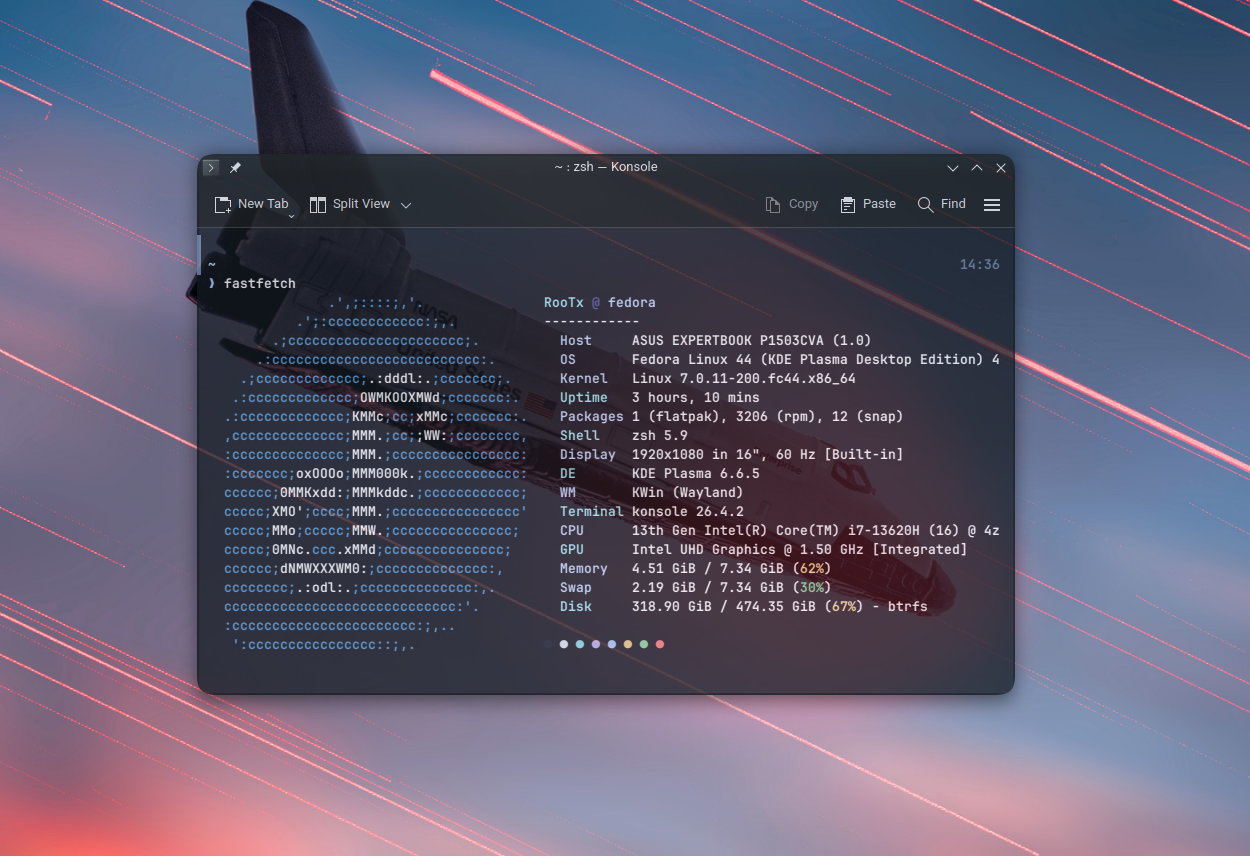
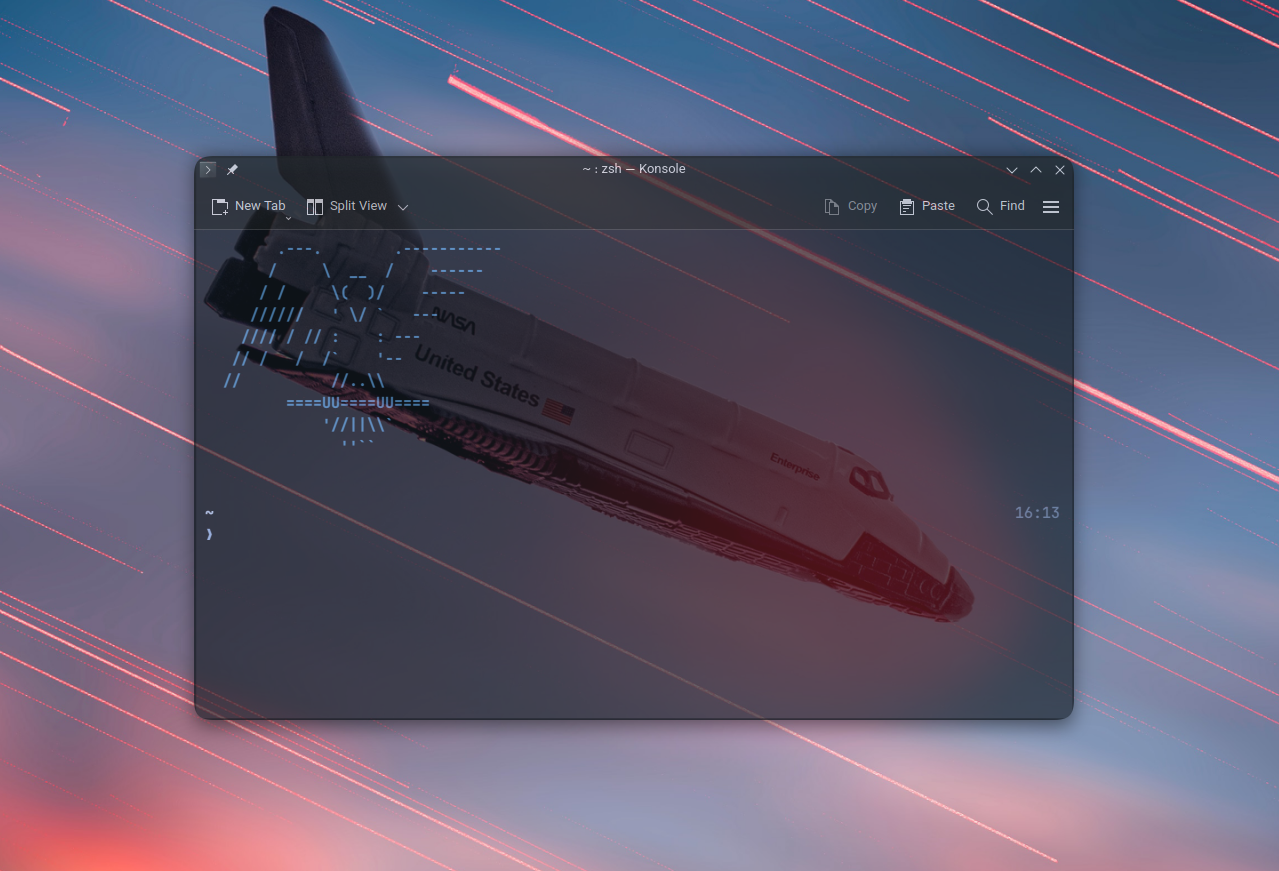
update README.md , add kali.png

diff --git a/README.md b/README.md
@@ -12,6 +12,9 @@ A clean terminal environment for KDE Plasma (Zsh / Bash)
 ![Fastfetch1](screenshots/fastfetch1.png)
 
 
+![Kali-Fastfetch](screenshots/kali.png)
+
+
 ![Konsole](screenshots/konsole.png)
 
 
@@ -39,7 +42,7 @@ Darky/
 
 
 ## Installation
-> Supports: Arch Linux, Arch-Based, Fedora, and RHEL-Based Distributions
+> Supports: all distributions (Fedora,Arch-based,Arch,RHEL-Based,kali,kubuntu,...)
 
 
 > Recommended:`chmod +x install.sh && ./install.sh`